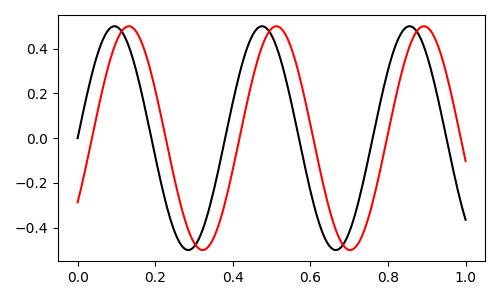
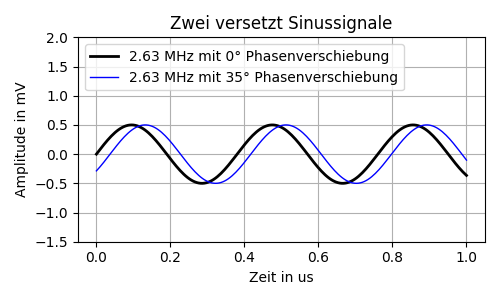
last version 080

diff --git a/Uebungen/080_PlotSinus/plotsinus.py b/Uebungen/080_PlotSinus/plotsinus.py
@@ -28,25 +28,25 @@ def createPlot(ax):
     """
 
     phi1_deg = 0
-    phi2_deg = -35
+    phi2_deg = 35
     phi1 = phi1_deg / 180 * np.pi
     phi2 = phi2_deg / 180 * np.pi
     f = 2.63e6
     a = 0.5
     t = np.linspace(0, 1e-6, 200)
 
-    y1 = a * np.sin(2 * np.pi * f * t + phi1)
-    y2 = a * np.sin(2 * np.pi * f * t + phi2)
+    y1 = a * np.sin(2 * np.pi * f * t - phi1)
+    y2 = a * np.sin(2 * np.pi * f * t - phi2)
 
     ax.plot(t * 1e6, y1, color='k',
-            label='{:.2f} MHz mit 0° Phasenverschiebung'.format(f / 1e6, phi1_deg),
-            ls='-')
-    ax.plot(t * 1e6, y2, color='r',
-            label='{:.2f} MHz mit 0° Phasenverschiebung'.format(f / 1e6, phi2_deg),
-            ls='--')
+            label='{:.2f} MHz mit {:.0f}° Phasenverschiebung'.format(f / 1e6, phi1_deg),
+            ls='-', lw=2)
+    ax.plot(t * 1e6, y2, color='k',
+            label='{:.2f} MHz mit {:.0f}° Phasenverschiebung'.format(f / 1e6, phi2_deg),
+            ls='--', lw=1)
     ax.legend(loc='upper left')
     ax.grid()
-    ax.set.title('Zwei versetzt Sinussignale')
+    ax.set_title('Zwei versetzte Sinussignale')
     ax.set_ylim([-1.5, 2.0])
     ax.set_ylabel('Amplitude in mV')
     ax.set_xlabel('Zeit in us')
